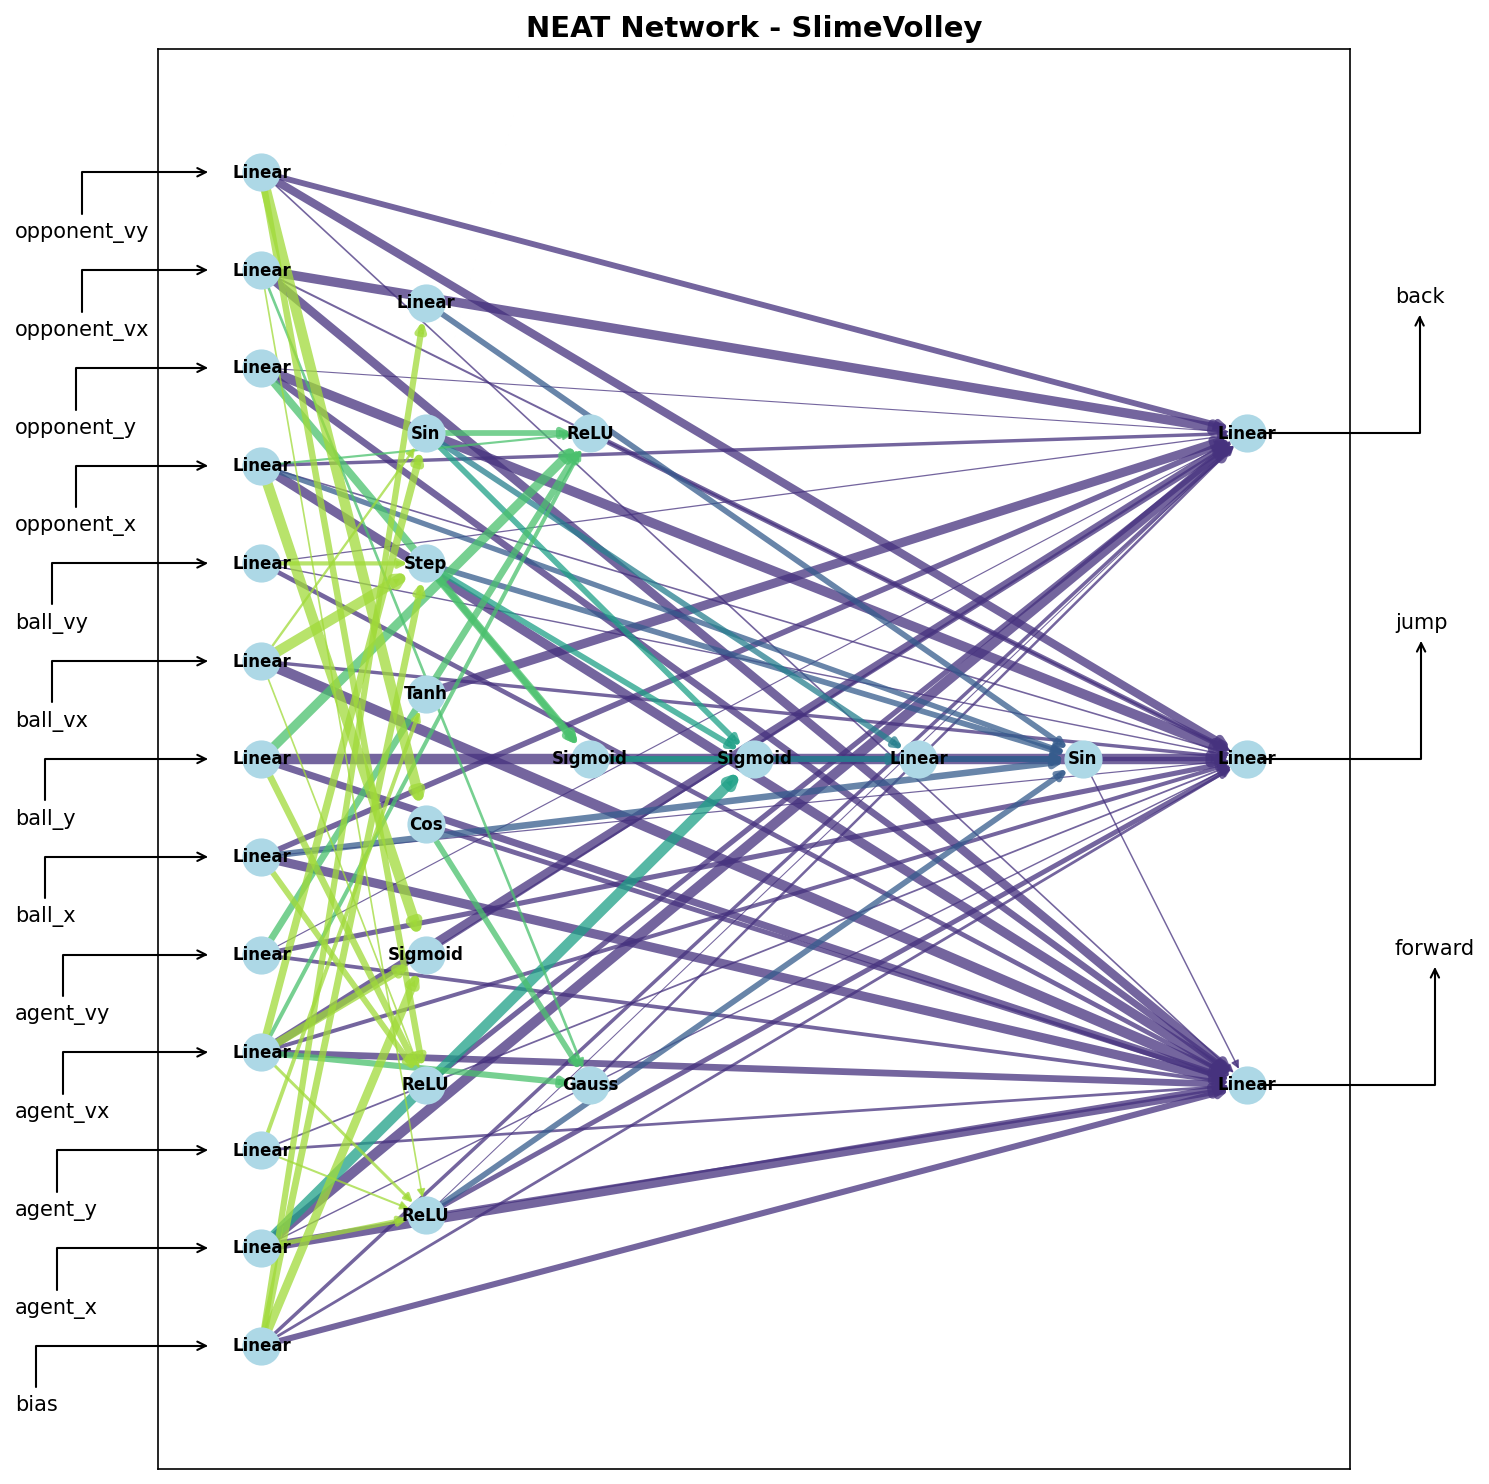
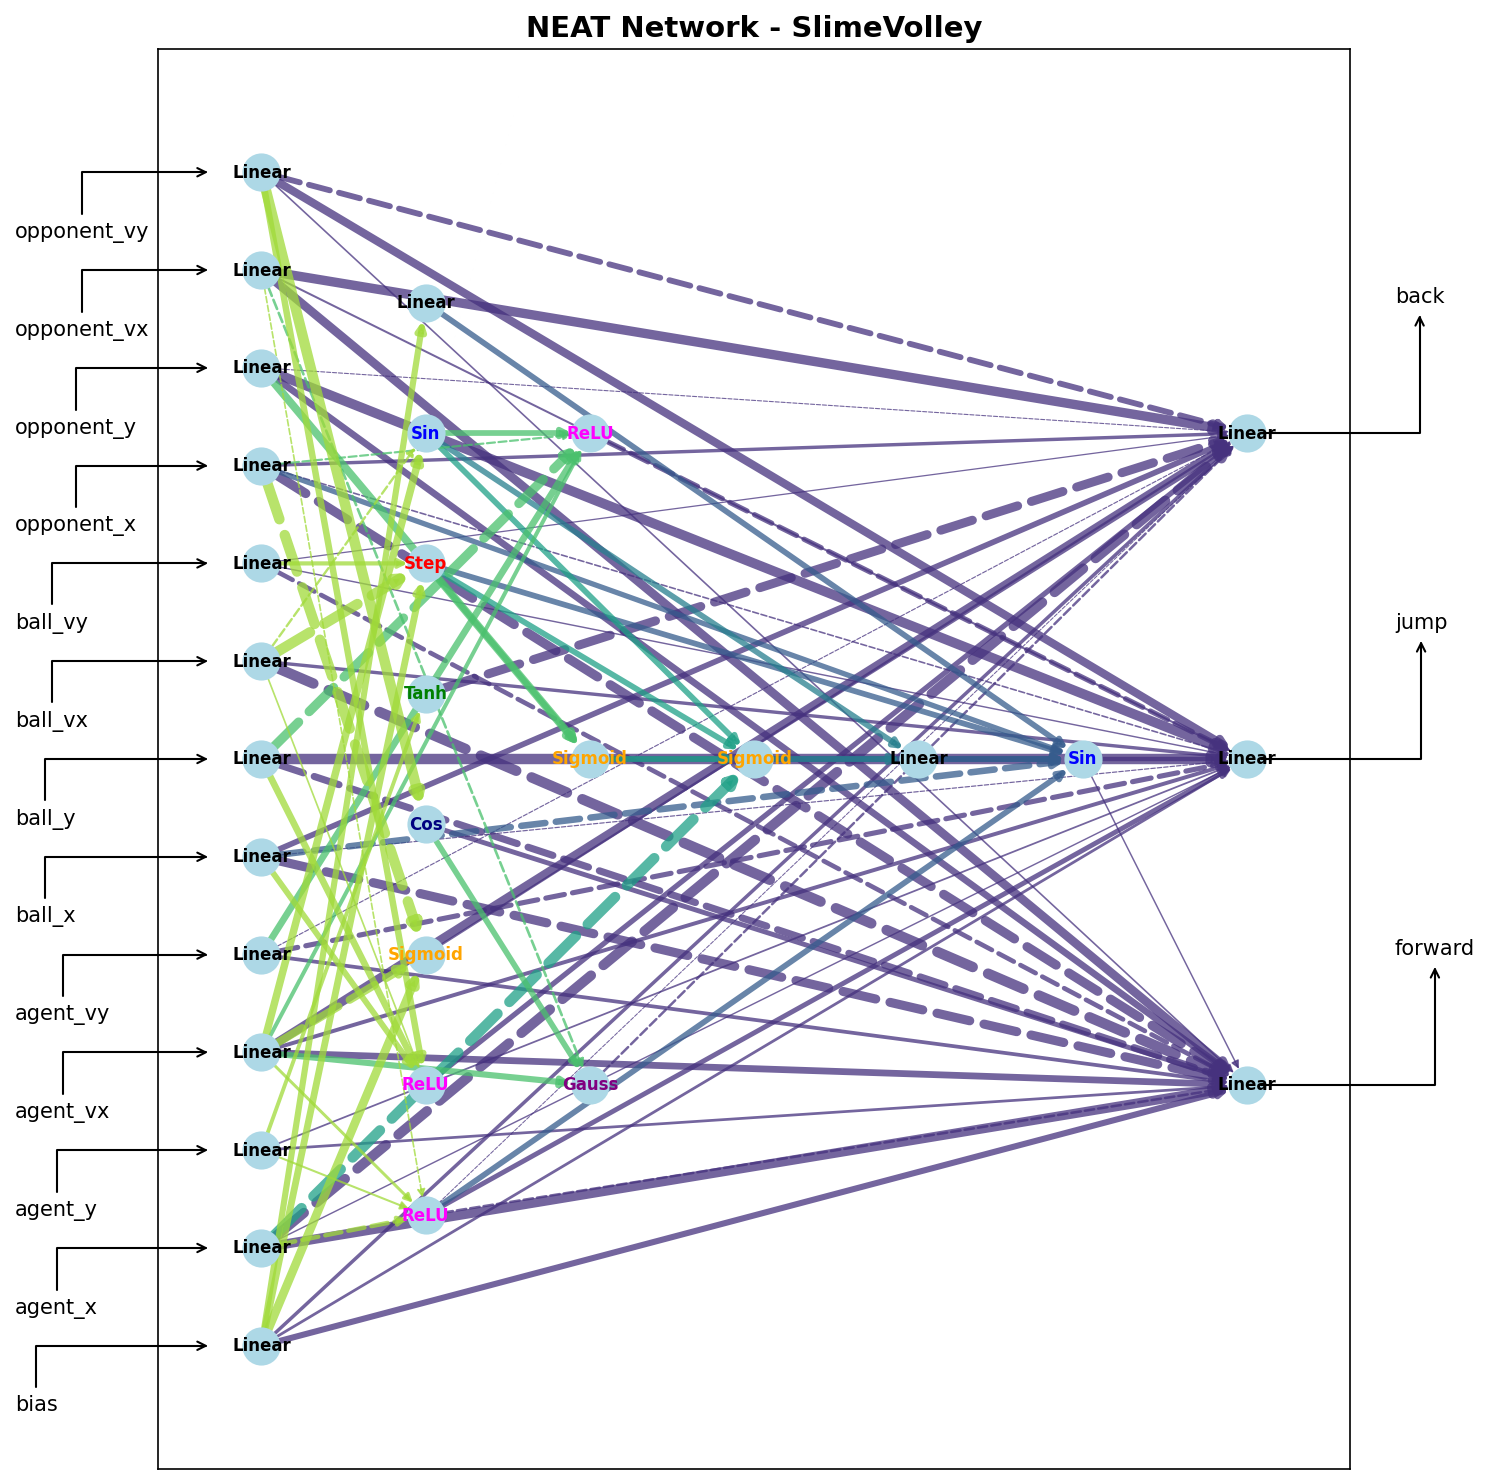
Chnaged the style of line and color of activation

diff --git a/WANNRelease/prettyNEAT/vis/viewInd.py b/WANNRelease/prettyNEAT/vis/viewInd.py
@@ -161,20 +161,44 @@ def drawNodeLabels(G, pos, aVec):
             ]
         )
     )
+    # Color mapping for activation functions
+    actColors = {
+        0: 'gray',      # unused
+        1: 'black',     # Linear - black
+        2: 'red',       # Step - red
+        3: 'blue',      # Sin - blue
+        4: 'purple',    # Gauss - purple
+        5: 'green',     # Tanh - green
+        6: 'orange',    # Sigmoid - orange
+        7: 'brown',    # Inverse - brown
+        8: 'cyan',      # Abs - cyan
+        9: 'magenta',   # ReLU - magenta
+        10: 'navy',     # Cos - navy blue
+        11: 'olive',    # Squared - olive
+    }
+    
     # Handle out-of-bounds indices (shouldn't happen, but be safe)
     aVec_int = aVec.astype(int)
     aVec_int = np.clip(aVec_int, 0, len(actLabel) - 1)
     listLabel = actLabel[aVec_int]
     label = dict(enumerate(listLabel))
-    # Draw labels with larger, more readable font
-    nx.draw_networkx_labels(
-        G, 
-        pos, 
-        labels=label,
-        font_size=8,
-        font_weight='bold',
-        font_color='black'
-    )
+    
+    # Create color mapping for each node
+    label_colors = {}
+    for node_id, act_id in enumerate(aVec_int):
+        label_colors[node_id] = actColors.get(act_id, 'black')
+    
+    # Draw labels with color coding - need to draw individually to set different colors
+    for node_id, label_text in label.items():
+        if label_text:  # Only draw if label is not empty
+            nx.draw_networkx_labels(
+                G,
+                pos,
+                labels={node_id: label_text},
+                font_size=8,
+                font_weight='bold',
+                font_color=label_colors[node_id]
+            )
 
 
 def drawEdge(G, pos, wMat, layer):
@@ -182,7 +206,8 @@ def drawEdge(G, pos, wMat, layer):
     # Organize edges by layer
     _, nPerLayer = np.unique(layer, return_counts=True)
     edgeLayer = []
-    edgeWeights = []  # Store weights for each layer
+    edgeWeights = []  # Store weights for each layer (signed, not absolute)
+    edgeSigns = []  # Store sign info for each layer (True = positive, False = negative)
     layBord = np.cumsum(nPerLayer)
     for i in range(0, len(layBord)):
         tmpMat = np.copy(wMat)
@@ -194,11 +219,14 @@ def drawEdge(G, pos, wMat, layer):
         edges = list(zip(rows.tolist(), cols.tolist()))  # Convert to list to avoid zip exhaustion
         edgeLayer.append(nx.DiGraph())
         edgeLayer[-1].add_edges_from(edges)
-        # Store weights for edges in this layer
-        weights = [abs(tmpMat[r, c]) for r, c in edges]
-        edgeWeights.append(weights)
+        # Store weights and signs for edges in this layer
+        weights = [tmpMat[r, c] for r, c in edges]
+        signs = [w >= 0 for w in weights]  # True for positive, False for negative
+        edgeWeights.append([abs(w) for w in weights])  # Store absolute values for width calculation
+        edgeSigns.append(signs)
     edgeLayer.append(edgeLayer.pop(0))  # move first layer to correct position
     edgeWeights.append(edgeWeights.pop(0))  # move weights to match
+    edgeSigns.append(edgeSigns.pop(0))  # move signs to match
 
     # Calculate weight scaling for line thickness
     # Get all non-zero weights for normalization
@@ -233,18 +261,49 @@ def drawEdge(G, pos, wMat, layer):
         else:
             widths = [1.0] * len(edgeLayer[i].edges)
         
-        nx.draw_networkx_edges(
-            G,
-            pos,
-            edgelist=edgeLayer[i].edges,
-            alpha=0.75,
-            width=widths,
-            edge_color=C,
-            edge_cmap=plt.cm.viridis,
-            edge_vmin=0.0,
-            edge_vmax=1.0,
-            arrowsize=8,
-        )
+        # Determine line styles: solid for positive, dashed for negative
+        styles = ['solid' if sign else 'dashed' for sign in edgeSigns[i]]
+        
+        # Draw edges with different styles for positive/negative weights
+        # NetworkX doesn't support per-edge styles directly, so we need to draw in groups
+        positive_edges = [edge for j, edge in enumerate(edgeLayer[i].edges) if edgeSigns[i][j]]
+        negative_edges = [edge for j, edge in enumerate(edgeLayer[i].edges) if not edgeSigns[i][j]]
+        positive_widths = [widths[j] for j in range(len(widths)) if edgeSigns[i][j]]
+        negative_widths = [widths[j] for j in range(len(widths)) if not edgeSigns[i][j]]
+        positive_colors = [C[j] for j in range(len(C)) if edgeSigns[i][j]]
+        negative_colors = [C[j] for j in range(len(C)) if not edgeSigns[i][j]]
+        
+        # Draw positive weights (solid lines)
+        if len(positive_edges) > 0:
+            nx.draw_networkx_edges(
+                G,
+                pos,
+                edgelist=positive_edges,
+                alpha=0.75,
+                width=positive_widths,
+                edge_color=positive_colors,
+                edge_cmap=plt.cm.viridis,
+                edge_vmin=0.0,
+                edge_vmax=1.0,
+                arrowsize=8,
+                style='solid',
+            )
+        
+        # Draw negative weights (dashed lines)
+        if len(negative_edges) > 0:
+            nx.draw_networkx_edges(
+                G,
+                pos,
+                edgelist=negative_edges,
+                alpha=0.75,
+                width=negative_widths,
+                edge_color=negative_colors,
+                edge_cmap=plt.cm.viridis,
+                edge_vmin=0.0,
+                edge_vmax=1.0,
+                arrowsize=8,
+                style='dashed',
+            )
 
 
 def getLayer(wMat):
